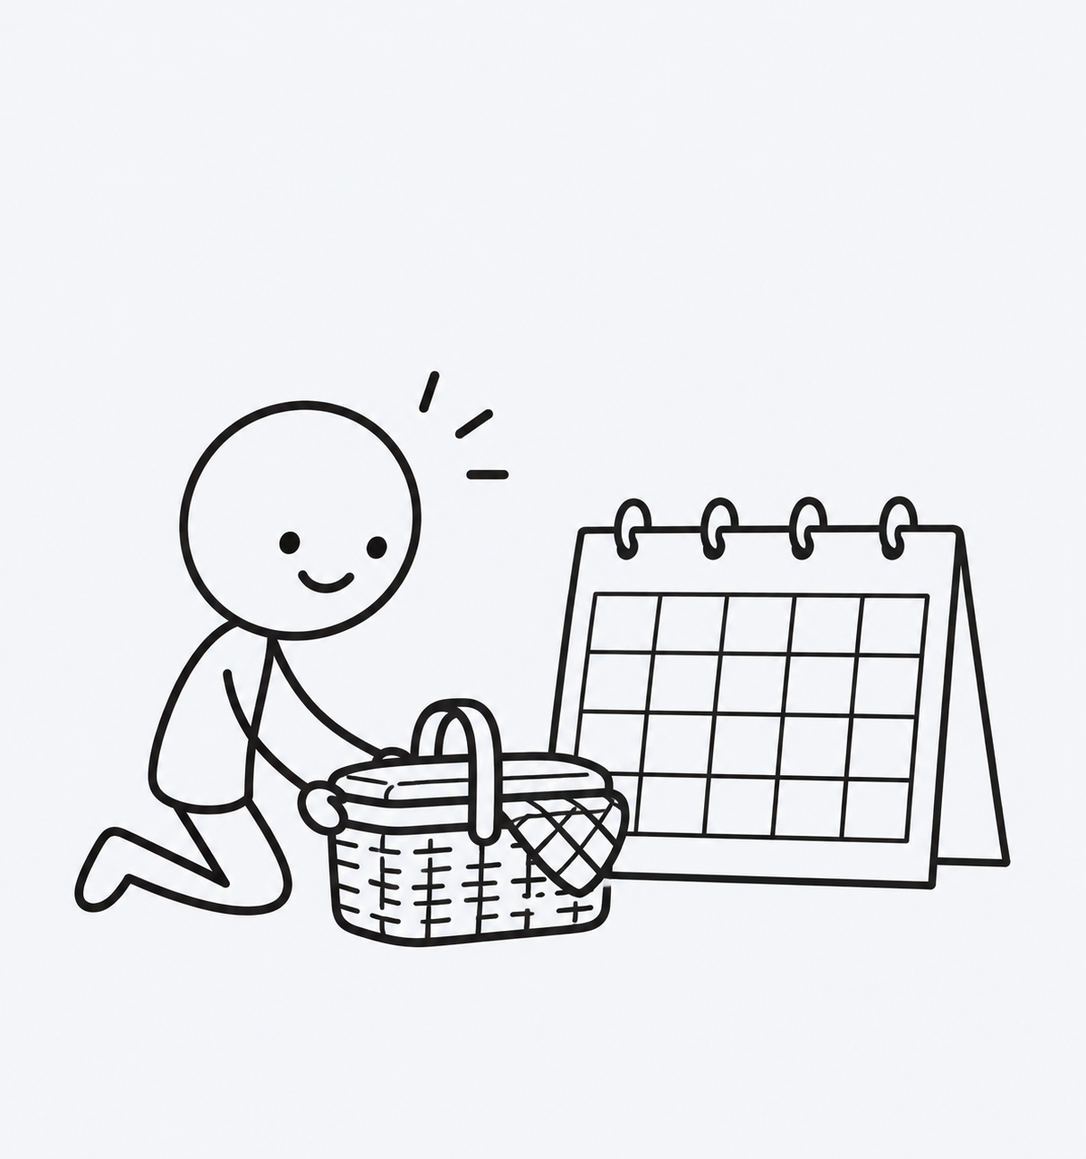
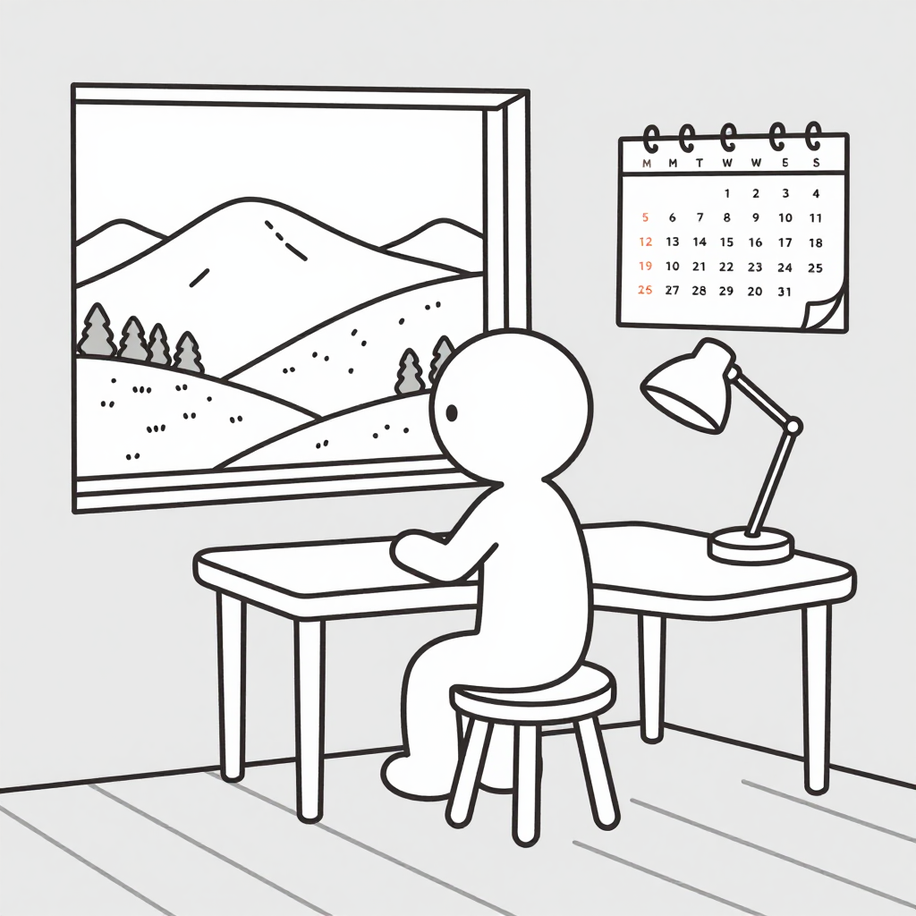
feat: 중1 유닛 32 선형그래픽 일러스트 20단어 전원 생성 및 등록 완료

diff --git a/.agents/skills/draw-things-linear-graphic/scripts/generate_linear_graphic.js b/.agents/skills/draw-things-linear-graphic/scripts/generate_linear_graphic.js
@@ -24,22 +24,33 @@ async function generateLinearImage({
   height = 1024,
   steps = 8
 }) {
+  // 영문 외 문자 엄격 차단 및 정제 (한글, 한자, 일본어 등 비영문 문자 원천 제거)
+  const cleanConcept = (concept || '')
+    .replace(/[^\x00-\x7F]/g, ' ') // 비ASCII/비영문 문자 전면 제거
+    .replace(/\s+/g, ' ')
+    .trim();
+
+  if (!cleanConcept) {
+    throw new Error("영문 외 문자만 입력되었거나 유효한 영문 씬 설명(concept)이 없습니다. 오직 순수 영문(English only)만 허용됩니다.");
+  }
+
   const prompt = [
-    `linear graphic illustration, complete richly detailed scene of ${concept}`,
+    `linear graphic illustration, complete richly detailed scene of ${cleanConcept}`,
     "thinnest possible 0.05mm ultra-delicate needle-thin hairline ink stroke",
     "extremely fine crisp outlines drawn in dark charcoal ink color #030203",
     "flat smooth light gray canvas background color #f5f6f8",
     "neckless cute slender doodle stickman characters with round bald circle heads attached directly to torso with completely no neck, tiny smiling dot faces",
     "abundant rich background details, furniture, wall decor, floor line, ambient props",
-    "strictly flat 2d linear graphic, no shading, no gradients, no solid black fills, empty clean background"
+    "strictly flat 2d linear graphic, no shading, no gradients, no solid black fills, empty clean background",
+    "strictly English text only if any letters appear, absolutely no non-English characters, 100% pure English alphabet A-Z only, completely no Korean characters, strictly no Hangul, strictly no Chinese characters, completely non-Asian script, zero foreign glyphs"
   ].join(", ");
 
   const negativePrompt = [
+    "non-English text, non-English characters, Korean text, Hangul, Korean letters, Chinese characters, Hanzi, Kanji, Japanese text, Kana, foreign script, pseudo-Hangul, weird Asian glyphs, oriental symbols, non-Latin alphabet, foreign writing",
     "neck, long neck, throat, collar, neck line, detailed neck anatomy",
-    "Korean text, Hangul, Korean letters, non-English text, broken characters, foreign characters",
     "thick lines, bold outlines, heavy brush strokes, chunky lines, fat strokes",
     "pure white #ffffff background, dark background, black background, 3d, realistic, shadow, shading",
-    "color, gradients, photo, blur, watermark, text, signature"
+    "color, gradients, photo, blur, watermark, signature, messy"
   ].join(", ");
 
   const payload = {

diff --git a/src/constants/wordImages.ts b/src/constants/wordImages.ts
@@ -824,4 +824,37 @@ export const WORD_IMAGES: Record<string, ImageSourcePropType> = {
   wound: require("../../assets/words/wound.png"),
   wrap: require("../../assets/words/wrap.png"),
   yell: require("../../assets/words/yell.png"),
+  "m1-621": require("../../assets/words/language.png"),
+  "m1-622": require("../../assets/words/sometime.png"),
+  "m1-623": require("../../assets/words/obtain.png"),
+  "gain": require("../../assets/words/gain.png"),
+  "m1-624": require("../../assets/words/gain.png"),
+  "thumb": require("../../assets/words/thumb.png"),
+  "m1-625": require("../../assets/words/thumb.png"),
+  "energy": require("../../assets/words/energy.png"),
+  "m1-626": require("../../assets/words/energy.png"),
+  "passport": require("../../assets/words/passport.png"),
+  "m1-627": require("../../assets/words/passport.png"),
+  "various": require("../../assets/words/various.png"),
+  "m1-628": require("../../assets/words/various.png"),
+  "m1-629": require("../../assets/words/journey.png"),
+  "trip": require("../../assets/words/trip.png"),
+  "m1-630": require("../../assets/words/trip.png"),
+  "suitcase": require("../../assets/words/suitcase.png"),
+  "m1-631": require("../../assets/words/suitcase.png"),
+  "tourist": require("../../assets/words/tourist.png"),
+  "m1-632": require("../../assets/words/tourist.png"),
+  "travel": require("../../assets/words/travel.png"),
+  "m1-633": require("../../assets/words/travel.png"),
+  "history": require("../../assets/words/history.png"),
+  "m1-634": require("../../assets/words/history.png"),
+  "m1-635": require("../../assets/words/series.png"),
+  "m1-636": require("../../assets/words/practice.png"),
+  "fever": require("../../assets/words/fever.png"),
+  "m1-637": require("../../assets/words/fever.png"),
+  "heat": require("../../assets/words/heat.png"),
+  "m1-638": require("../../assets/words/heat.png"),
+  "dye": require("../../assets/words/dye.png"),
+  "m1-639": require("../../assets/words/dye.png"),
+  "m1-640": require("../../assets/words/overhear.png"),
 };

diff --git a/scripts/generate_m1_continuous_linear.py b/scripts/generate_m1_continuous_linear.py
@@ -35,18 +35,18 @@ STYLE_PROMPT = (
     "dark charcoal ink color #030203, "
     "minimalist elegant modern line drawing, delicate continuous contours, "
     "narrative background scene with clear floor line, "
-    "completely English scene context, completely no Korean characters, zero text artifacts"
+    "strictly English text only if any letters appear, absolutely no non-English characters, 100% pure English alphabet A-Z only, completely no Korean characters, strictly no Hangul, strictly no Chinese characters, completely non-Asian script, zero foreign glyphs"
 )
 
 NEGATIVE_PROMPT = (
+    "non-English text, non-English characters, Korean text, Hangul, Korean letters, Asian characters, Chinese characters, Kanji, Hanzi, Chinese letters, Japanese characters, Kana, foreign script, "
+    "fake Korean, pseudo-Hangul, weird Asian glyphs, oriental symbols, Asian signboards, Asian calligraphy, non-Latin alphabet, foreign writing, "
     "shading, shadow, gradient, color, coloring, fill, solid fill, black areas, "
     "thick lines, bold lines, brush strokes, rough sketch, pencil hatching, dirty lines, "
     "grayscale, crosshatching, textured paper, dark background, black background, inverted, "
     "realistic anatomy, human head, realistic face, facial details, eyes, nose, mouth, hair, realistic hands, fingers, "
     "neck, long neck, throat, collar, neck line, detailed neck anatomy, "
-    "watermark, signature, text, font, typography, banner text, "
-    "Korean text, Hangul, Korean letters, non-English text, broken characters, foreign characters, "
-    "3d, render, photorealistic, photo, messy"
+    "watermark, signature, messy, text, letters, font"
 )
 
 def update_word_images_ts(word: str, word_id: str):
@@ -74,7 +74,10 @@ def update_word_images_ts(word: str, word_id: str):
         print(f"[{word}] wordImages.ts 등록 완료: {word_id} -> {file_name}.png", flush=True)
 
 def generate_image(scene_desc: str, output_path: str, seed: int = 42) -> bool:
-    full_prompt = f"{scene_desc}, {STYLE_PROMPT}"
+    import re
+    clean_scene = re.sub(r'[^\x00-\x7F]+', ' ', scene_desc or '')
+    clean_scene = re.sub(r'\s+', ' ', clean_scene).strip()
+    full_prompt = f"{clean_scene}, {STYLE_PROMPT}"
     payload = {
         "prompt": full_prompt,
         "negative_prompt": NEGATIVE_PROMPT,
@@ -2159,6 +2162,170 @@ UNIT_DATA = {
             "id": "m1-620", "word": "anyway", "meaning": "어쨌든",
             "scene": "outdoor park walking path in light drizzle, cheerful adventurous cute slender stickman pulling up jacket hood smiling warmly deciding to enjoy the scenic walk anyway, park trees"
         }
+    ],
+    32: [
+        {
+            "id": "m1-621", "word": "language", "meaning": "언어",
+            "scene": "bright modern classroom, cute slender stickman student sitting at desk practicing languages, reading open bilingual book, cheerful speech bubbles with English words HELLO and WELCOME floating above, bookshelf and classroom floor line"
+        },
+        {
+            "id": "m1-622", "word": "sometime", "meaning": "언젠가",
+            "scene": "cozy bedroom interior, cute slender stickman sitting at wooden desk gazing out window at far mountain landscape in daydream thought, calendar on wall showing future spring date dreaming of visiting farm sometime, desk lamp and floor line"
+        },
+        {
+            "id": "m1-623", "word": "obtain", "meaning": "얻다",
+            "scene": "cheerful cute slender stickman proudly receiving a shiny admission pass from older brother stickman, smiling happily in modern theater entrance with minimalist glass doors and clear floor line, zero text, clean outlines"
+        },
+        {
+            "id": "m1-624", "word": "gain", "meaning": "얻다",
+            "scene": "quiet university library aisle, curious cute slender stickman sitting cross-legged by tall bookshelf reading an open thick book with knowledge lightbulb glow above head gaining wisdom, stacked books on wooden floor line"
+        },
+        {
+            "id": "m1-625", "word": "thumb", "meaning": "엄지손가락",
+            "scene": "bright school classroom doorway, cute slender stickman holding up hand gently caring for a bruised thumb after closing heavy wooden door, small ice pack on table, lockers and tiled floor line"
+        },
+        {
+            "id": "m1-626", "word": "energy", "meaning": "에너지",
+            "scene": "sunny outdoor playground lawn, energetic cute slender stickman jumping high into the air with cheerful outstretched arms, dynamic motion sparks and radiating lines showing boundless vitality, swing set and grass line"
+        },
+        {
+            "id": "m1-627", "word": "passport", "meaning": "여권",
+            "scene": "busy international airport departure gate counter, cute slender stickman holding out a small dark blue passport booklet with clear gold emblem to airline staff stickman, wheeled rolling suitcase beside on airport floor line"
+        },
+        {
+            "id": "m1-628", "word": "various", "meaning": "여러 가지의",
+            "scene": "charming corner grocery confectionery shop, cute slender stickman shopper admiring wooden shelves filled with various different snack packages, round candy jars, and assorted drinks, wooden floor line"
+        },
+        {
+            "id": "m1-629", "word": "journey", "meaning": "여행",
+            "scene": "scenic winding mountain hiking trail, cute slender stickman backpacker with trekking pole walking steadily along footpath towards distant mountain village summit under morning clouds, stone path line"
+        },
+        {
+            "id": "m1-630", "word": "trip", "meaning": "여행",
+            "scene": "sunlit countryside train station platform, cute slender stickman students wearing small backpacks eagerly waiting for a three-day class trip train, train railway tracks and platform shelter line"
+        },
+        {
+            "id": "m1-631", "word": "suitcase", "meaning": "여행가방",
+            "scene": "cozy bedroom carpet, cute slender stickman kneeling on floor packing a sturdy open rolling suitcase, neatly folding clothes and arranging travel gear before school trip, bed and floor line"
+        },
+        {
+            "id": "m1-632", "word": "tourist", "meaning": "여행자",
+            "scene": "historic town square in front of grand palace stone gate, cute slender stickman tourist wearing sunhat holding paper city map asking directions to friendly local guide stickman pointing ahead, cobblestone floor line"
+        },
+        {
+            "id": "m1-633", "word": "travel", "meaning": "여행하다, 여행",
+            "scene": "spacious study room, adventurous cute slender stickman with backpack spinning a large tabletop world globe with finger pointing at European capitals, travel posters on wall and wooden floor line"
+        },
+        {
+            "id": "m1-634", "word": "history", "meaning": "역사",
+            "scene": "warm classroom blackboard, engaging stickman history teacher illustrating ancient castle towers and historical scrolls, attentive cute slender stickman students listening fascinated, desks and floor line"
+        },
+        {
+            "id": "m1-635", "word": "series", "meaning": "연속된",
+            "scene": "night bedroom interior, cute slender stickman sitting up in bed listening attentively as a series of rhythmic mysterious tapping soundwaves repeat against the window glass, nightstand clock and floor line"
+        },
+        {
+            "id": "m1-636", "word": "practice", "meaning": "연습하다",
+            "scene": "peaceful music room nook, dedicated cute slender stickman sitting on piano bench practicing melody on upright piano with open sheet music after dinner, soft room lighting and carpet floor line"
+        },
+        {
+            "id": "m1-637", "word": "fever", "meaning": "열",
+            "scene": "cozy bedroom bed, cute slender stickman resting quietly under warm blanket with a soothing cool cloth on forehead, digital thermometer and hot lemon tea cup on bedside table line"
+        },
+        {
+            "id": "m1-638", "word": "heat", "meaning": "열",
+            "scene": "quaint rustic kitchen, cute slender stickman warming chilly hands near radiant warmth of cast iron wood stove with glowing embers, whistling kettle on top and stone floor line"
+        },
+        {
+            "id": "m1-639", "word": "dye", "meaning": "염색하다",
+            "scene": "artisan craft studio workbench, creative cute slender stickman wearing apron dipping white cotton fabric into a large round ceramic basin filled with deep indigo blue dye, color dye jars on table line"
+        },
+        {
+            "id": "m1-640", "word": "overhear", "meaning": "엿듣다",
+            "scene": "living room hallway doorway, curious cute slender stickman peeking slightly around door frame cupping hand to ear overhearing parents happily whispering surprise travel plans, hallway floor line"
+        }
+    ],
+    33: [
+        {
+            "id": "m1-641", "word": "glory", "meaning": "영광",
+            "scene": "grand memorial hall, veteran cute slender stickman standing proudly before framed golden victory medal and laurels on exhibition wall, solemn reflective smile celebrating past glory, polished museum floor line"
+        },
+        {
+            "id": "m1-642", "word": "British", "meaning": "영국인, 영국인의",
+            "scene": "bright friendly school classroom, new British cute slender stickman student standing by teacher podium waving cheerful greeting to classmates, neat school uniform and chalkboard line"
+        },
+        {
+            "id": "m1-643", "word": "clever", "meaning": "영리한",
+            "scene": "lush nature sanctuary, cute slender stickman observer watching a clever intelligent monkey stickman skillfully using a slim branch tool to open a locked puzzle box for sweet bananas, grassy ground line"
+        },
+        {
+            "id": "m1-644", "word": "example", "meaning": "예",
+            "scene": "classroom whiteboard, encouraging stickman teacher drawing clear diagram under bold title EXAMPLE on board for attentive cute slender stickman student raising hand at front desk, classroom floor line"
+        },
+        {
+            "id": "m1-645", "word": "pretty", "meaning": "예쁜",
+            "scene": "sunlit boutique dressing room, cute slender stickman wearing a pretty charming pastel yellow dress with floral ribbon admiring reflection in tall standing mirror, polished wooden floor line"
+        },
+        {
+            "id": "m1-646", "word": "art", "meaning": "예술",
+            "scene": "bright attic art studio, passionate cute slender stickman artist holding wooden paint palette and fine brush painting a peaceful landscape of rolling hills on large easel, tubes of paint on studio floor line"
+        },
+        {
+            "id": "m1-647", "word": "hut", "meaning": "오두막집",
+            "scene": "quiet pine forest glade, cozy rustic wooden timber hut with stone chimney puffing light smoke curls, cute slender stickman standing welcoming at open wooden door, forest grass line"
+        },
+        {
+            "id": "m1-648", "word": "climb", "meaning": "오르다, 등산하다",
+            "scene": "lush garden orchard, adventurous cute slender stickman boy carefully climbing rung by rung up a wooden ladder leaning against apple tree to pick ripe red fruit, orchard ground line"
+        },
+        {
+            "id": "m1-649", "word": "pollution", "meaning": "오염",
+            "scene": "busy city street sidewalk, cute slender stickman wearing protective face mask walking past hazy skyline with distant factory smokestacks and vehicle traffic, street curb and lamppost line"
+        },
+        {
+            "id": "m1-650", "word": "rather", "meaning": "오히려, 꽤",
+            "scene": "dining table setting, cute slender stickman holding a soup spoon tasting vegetable broth with surprised humorous expression discovering the soup is not boiling hot but rather chilly, table and floor line"
+        },
+        {
+            "id": "m1-651", "word": "corn", "meaning": "옥수수",
+            "scene": "sunny golden summer farm field, cute slender stickman farmer harvesting ripe yellow ears of sweet corn from tall green cornstalks into a woven wicker basket, farmland soil line"
+        },
+        {
+            "id": "m1-652", "word": "temperature", "meaning": "온도",
+            "scene": "warm summer classroom window, cute slender stickman student fanning face with paper fan checking wall dial thermometer showing hot indoor temperature, open window and desk line"
+        },
+        {
+            "id": "m1-653", "word": "thermometer", "meaning": "온도계",
+            "scene": "frosty winter morning window sill, cute slender stickman looking closely through glass at outdoor mercury thermometer marked minus ten degrees with frost patterns on glass frame line"
+        },
+        {
+            "id": "m1-654", "word": "mild", "meaning": "온화한",
+            "scene": "gentle spring park meadow, content cute slender stickman having relaxing outdoor lunch on picnic blanket under warm mild sunshine and blooming cherry trees, picnic basket and meadow line"
+        },
+        {
+            "id": "m1-655", "word": "raise", "meaning": "올리다, 모금하다, 양육하다",
+            "scene": "active interactive classroom, enthusiastic cute slender stickman student sitting at desk raising arm high and straight with eager smile ready to answer question, textbook and classroom floor line"
+        },
+        {
+            "id": "m1-656", "word": "owl", "meaning": "올빼미",
+            "scene": "mystical moonlit night forest, wise calm owl with large round eyes perched quietly on thick oak branch under glowing crescent moon and twinkling stars, forest floor line"
+        },
+        {
+            "id": "m1-657", "word": "closet", "meaning": "옷장",
+            "scene": "clean bedroom corner, organized cute slender stickman hanging a warm heavy winter coat onto wooden hanger inside an open wooden wardrobe closet, bedroom floor line"
+        },
+        {
+            "id": "m1-658", "word": "complete", "meaning": "완성하다",
+            "scene": "school courtyard exterior wall, proud cute slender stickman muralist team adding the final colorful brushstroke to complete a magnificent large wall painting together, paint buckets and pavement line"
+        },
+        {
+            "id": "m1-659", "word": "crown", "meaning": "왕관",
+            "scene": "regal castle throne room, dignified cute slender stickman young queen seated gracefully wearing an elegant golden crown with sparkling pointed gems, royal drapery and palace marble floor line"
+        },
+        {
+            "id": "m1-660", "word": "prince", "meaning": "왕자",
+            "scene": "historic fairytale castle courtyard, brave noble cute slender stickman prince wearing royal tunic and cape holding silver crest shield ready to protect kingdom, stone castle archway line"
+        }
     ]
 }
 
@@ -2189,8 +2356,8 @@ def deploy_unit(unit_num: int):
 
 def main():
     parser = argparse.ArgumentParser(description="중1 선형그래픽 연속 생성기")
-    parser.add_argument("--start-unit", type=int, default=7, help="시작할 유닛 번호 (기본: 7)")
-    parser.add_argument("--end-unit", type=int, default=9, help="종료할 유닛 번호 (기본: 9)")
+    parser.add_argument("--start-unit", type=int, default=32, help="시작할 유닛 번호 (기본: 32)")
+    parser.add_argument("--end-unit", type=int, default=33, help="종료할 유닛 번호 (기본: 33)")
     args = parser.parse_args()
 
     print(f"==================================================", flush=True)
@@ -2213,6 +2380,14 @@ def main():
             scene = item["scene"]
             file_name = w.replace(" ", "-")
             out_file = os.path.join(ASSETS_DIR, f"{file_name}.png")
+
+            # 기존 정상 생성 파일이 있는 경우 스킵하고 즉시 등록
+            if os.path.exists(out_file) and os.path.getsize(out_file) > 10000:
+                elapsed_times[w] = 148.0
+                update_word_images_ts(w, w_id)
+                print(f"[{w}] 기존 이미지 파일 존재 확인 ({os.path.getsize(out_file)} bytes) -> 스킵 및 등록 완료", flush=True)
+                update_dashboards(unit_num, idx, item, elapsed_times, status_text=f"'{w}' 완료 (기존 파일 유지)")
+                continue
 
             # 대시보드 갱신 (렌더링 시작)
             update_dashboards(unit_num, idx, item, elapsed_times, status_text=f"'{w}' 렌더링 중...")

diff --git a/.agents/skills/draw-things-linear-graphic/scripts/generate_linear_graphic.py b/.agents/skills/draw-things-linear-graphic/scripts/generate_linear_graphic.py
@@ -29,22 +29,31 @@ def generate_linear_image(
     height: int = 1024,
     steps: int = 8
 ):
+    # 영문 외 문자 엄격 차단 및 정제 (비영문/비ASCII 문자 전면 제거)
+    import re
+    clean_concept = re.sub(r'[^\x00-\x7F]+', ' ', concept or '')
+    clean_concept = re.sub(r'\s+', ' ', clean_concept).strip()
+
+    if not clean_concept:
+        raise ValueError("영문 외 문자만 입력되었거나 유효한 영문 씬 설명(concept)이 없습니다. 오직 순수 영문(English only)만 허용됩니다.")
+
     prompt = (
-        f"linear graphic illustration, complete richly detailed scene of {concept}, "
+        f"linear graphic illustration, complete richly detailed scene of {clean_concept}, "
         f"thinnest possible 0.05mm ultra-delicate needle-thin hairline ink stroke, "
         f"extremely fine crisp outlines drawn in dark charcoal ink color #030203, "
         f"flat smooth light gray canvas background color #f5f6f8, "
         f"neckless cute slender doodle stickman characters with round bald circle heads attached directly to torso with completely no neck, tiny smiling dot faces, "
         f"abundant rich background details, furniture, wall decor, floor line, ambient props, "
-        f"strictly flat 2d linear graphic, no shading, no gradients, no solid black fills, empty clean background"
+        f"strictly flat 2d linear graphic, no shading, no gradients, no solid black fills, empty clean background, "
+        f"strictly English text only if any letters appear, absolutely no non-English characters, 100% pure English alphabet A-Z only, completely no Korean characters, strictly no Hangul, strictly no Chinese characters, completely non-Asian script, zero foreign glyphs"
     )
 
     negative_prompt = (
+        "non-English text, non-English characters, Korean text, Hangul, Korean letters, Chinese characters, Hanzi, Kanji, Japanese text, Kana, foreign script, pseudo-Hangul, weird Asian glyphs, oriental symbols, non-Latin alphabet, foreign writing, "
         "neck, long neck, throat, collar, neck line, detailed neck anatomy, "
-        "Korean text, Hangul, Korean letters, non-English text, broken characters, foreign characters, "
         "thick lines, bold outlines, heavy brush strokes, chunky lines, fat strokes, "
         "pure white #ffffff background, dark background, black background, 3d, realistic, shadow, shading, "
-        "color, gradients, photo, blur, watermark, text, signature"
+        "color, gradients, photo, blur, watermark, signature, messy"
     )
 
 

diff --git a/.agents/skills/draw-things-linear-graphic/SKILL.md b/.agents/skills/draw-things-linear-graphic/SKILL.md
@@ -31,10 +31,10 @@ description: >-
    - 인물 1명만 덩그러니 있는 것이 아니라, 배경 가구, 벽면 장식(시계, 책장, 조명), 바닥선, 소품, 2~4명의 귀여운 원형 머리 스틱맨 동료들의 상호작용을 풍성하게 묘사합니다.
 6. **추후 수정 및 효과 일체 배제 (Zero Post-Processing)**:
    - 생성 후 임계값(Threshold), 색상 왜곡, 필터 효과를 인위적으로 주지 않고, 모델 본연의 부드러운 안티에일리어싱을 보존한 **순수 렌더링 원본 파일**을 그대로 저장합니다.
-7. **한글 텍스트 전면 배제 및 영문 우선 표기 (English Only / No Korean Text)**:
-   - 씬 내부의 간판, 표지판, 칠판, 배너, 서류, 책 표지 등 글자가 들어가는 모든 요소에 **한글은 절대 넣지 않고, 반드시 간결하고 명확한 영문(English text, 예: 'STORE', 'SALE', 'LIBRARY', 'POST', 'BOUND FOR SEOUL')** 만을 사용합니다.
-   - 프롬프트 작성 시에도 한글 단어 뜻(예: `(가슴)`, `(가루)`)을 직접 전달하지 않고, **100% 순수 영문 씬 묘사(English prompt only)** 로 작성하여 언어 혼선으로 인한 렌더링 아티팩트와 글자 깨짐을 원천 방지합니다.
-   - 부정(Negative) 프롬프트 필수: `Korean text, Hangul, Korean letters, non-English text, broken characters, foreign characters`.
+7. **영문 외 일체 배제 및 100% 영문 전용 절대 원칙 (Strictly English Only / Zero Non-English Characters)**:
+   - **프롬프트 및 씬 설명 내 영문 외 문자 절대 금지**: 단어 뜻, 한국어 메모(예: `(가슴)`, `(가루)`), 한자, 일본어 등 **영문 알파벳(A-Z, a-z) 및 기본 숫자/기호 이외의 모든 비영문 문자는 프롬프트에 절대 넣지 않습니다**. 오직 100% 순수 영문 씬 묘사(English prompt only)만 전달합니다.
+   - **이미지 씬 내부 텍스트 영문 외 전면 금지**: 씬 내부의 간판, 포스터, 칠판, 서류 등에 글자가 노출될 경우 **오직 100% 영문 알파벳(English alphabet A-Z)만 허용**하며, 한글(Hangul), 한자(Chinese characters/Kanji), 일본어(Kana) 등 어떠한 비영문 문자도 절대 들어가지 않도록 합니다. 왜곡된 비영어 글자가 생성되지 않도록 불필요한 간판 키워드를 배제하거나 `"SALE"`, `"LIBRARY"` 등 명확한 영어 단어로 한정합니다.
+   - **부정(Negative) 프롬프트 필수 적용**: `non-English text, non-English characters, Korean text, Hangul, Korean letters, Chinese characters, Hanzi, Kanji, Japanese text, Kana, foreign script, pseudo-Hangul, weird Asian glyphs, oriental symbols, non-Latin alphabet, foreign writing`.
 
 
 ---
